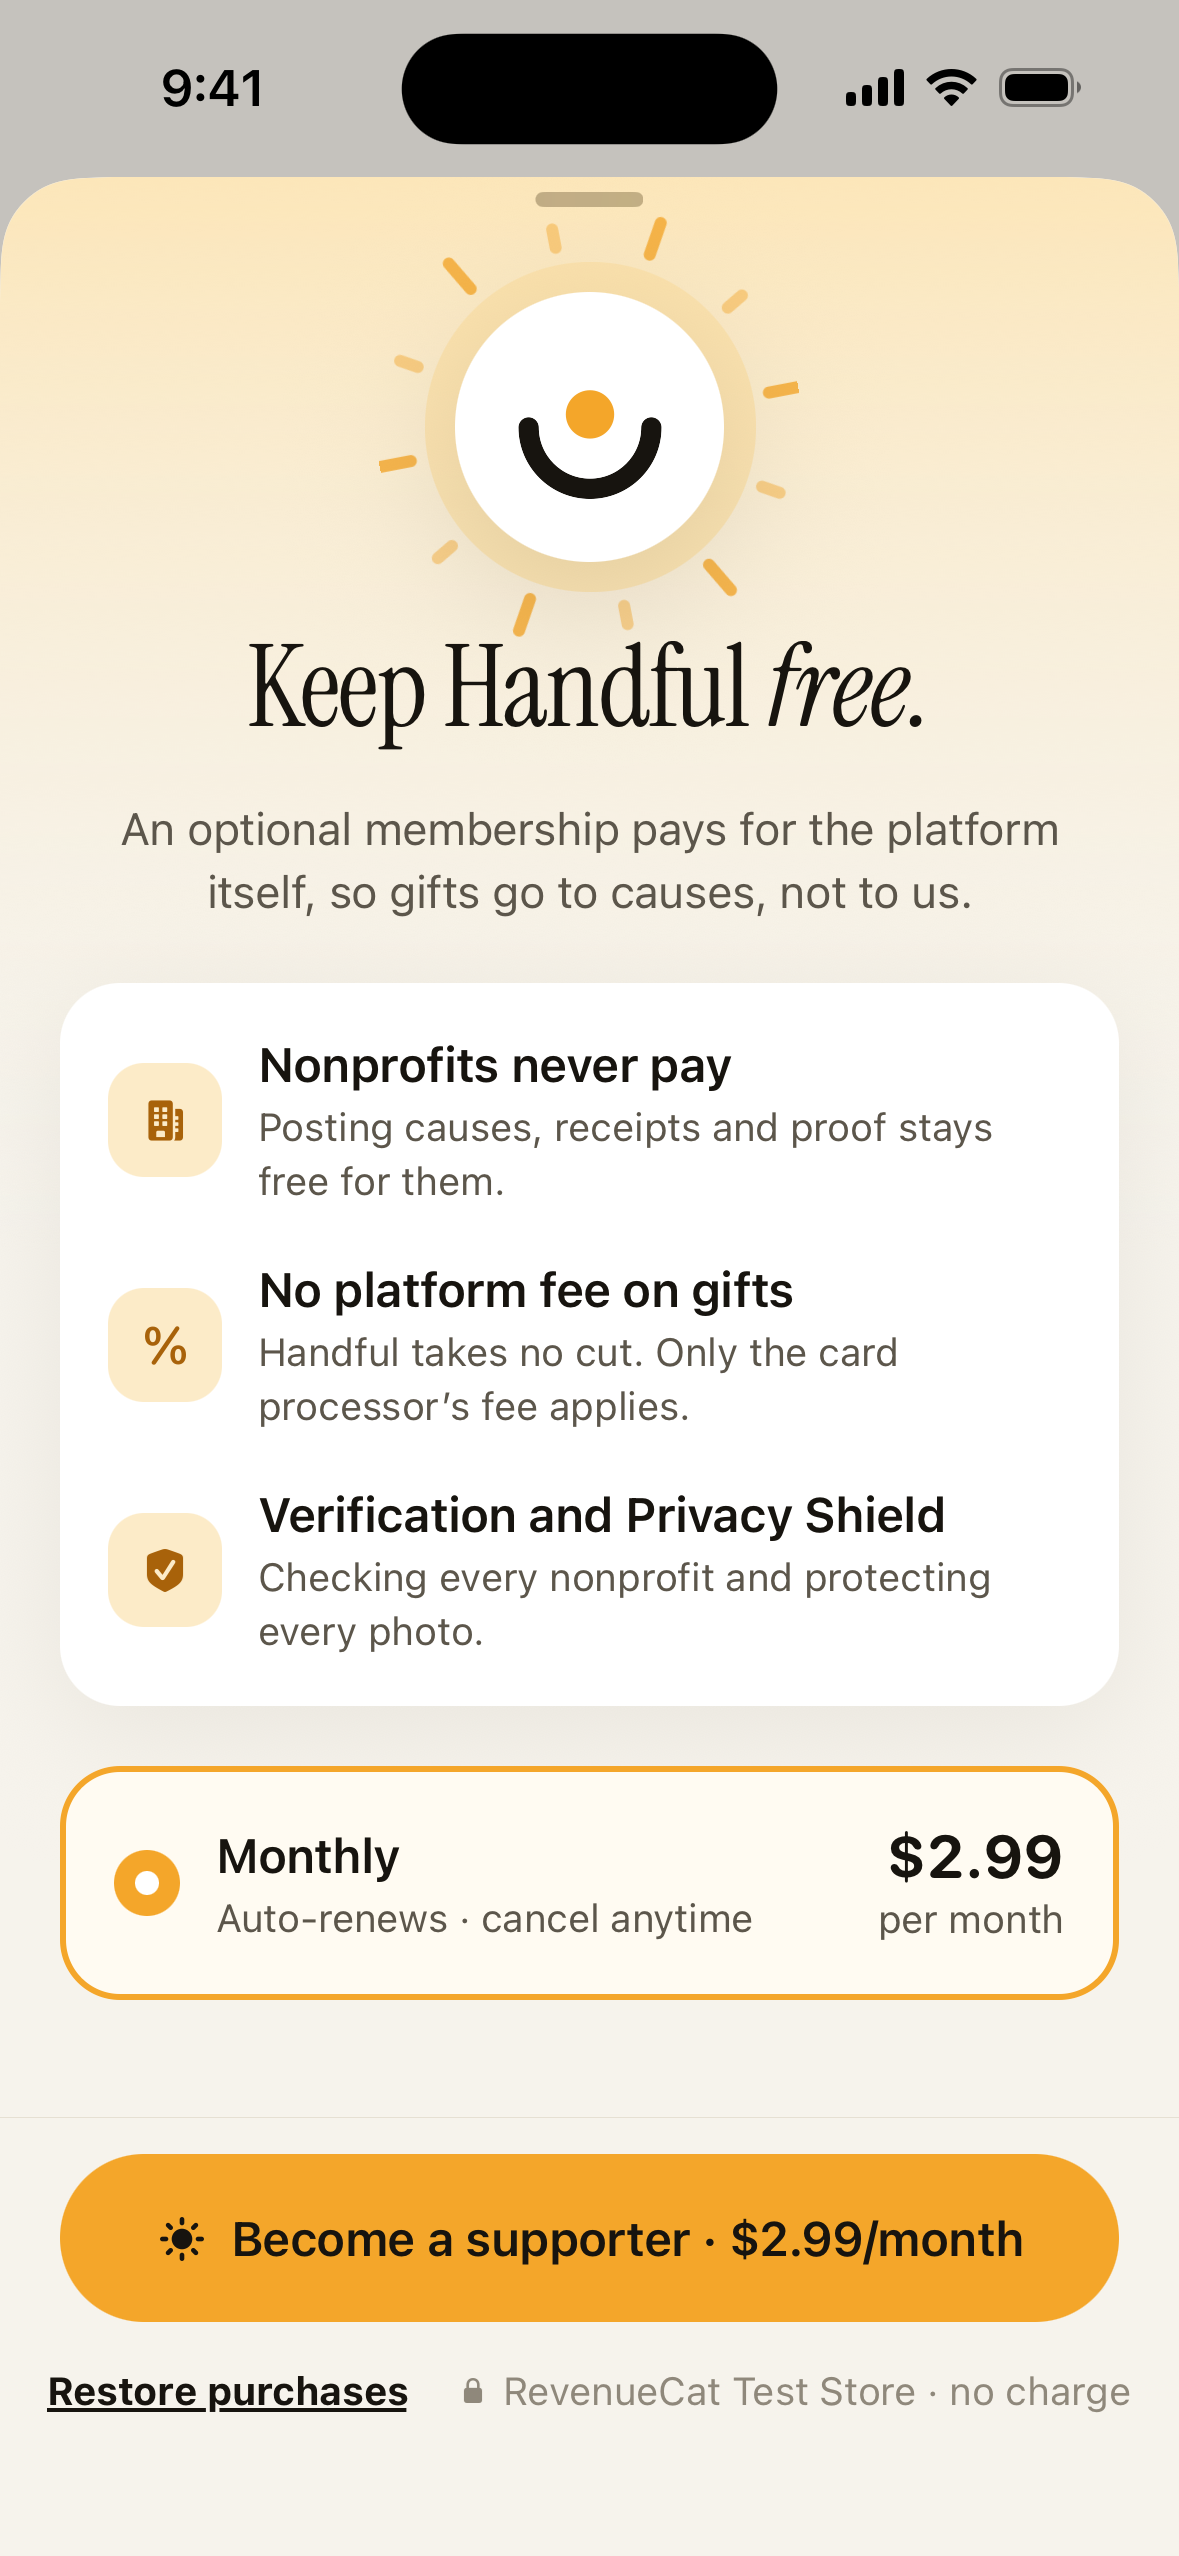
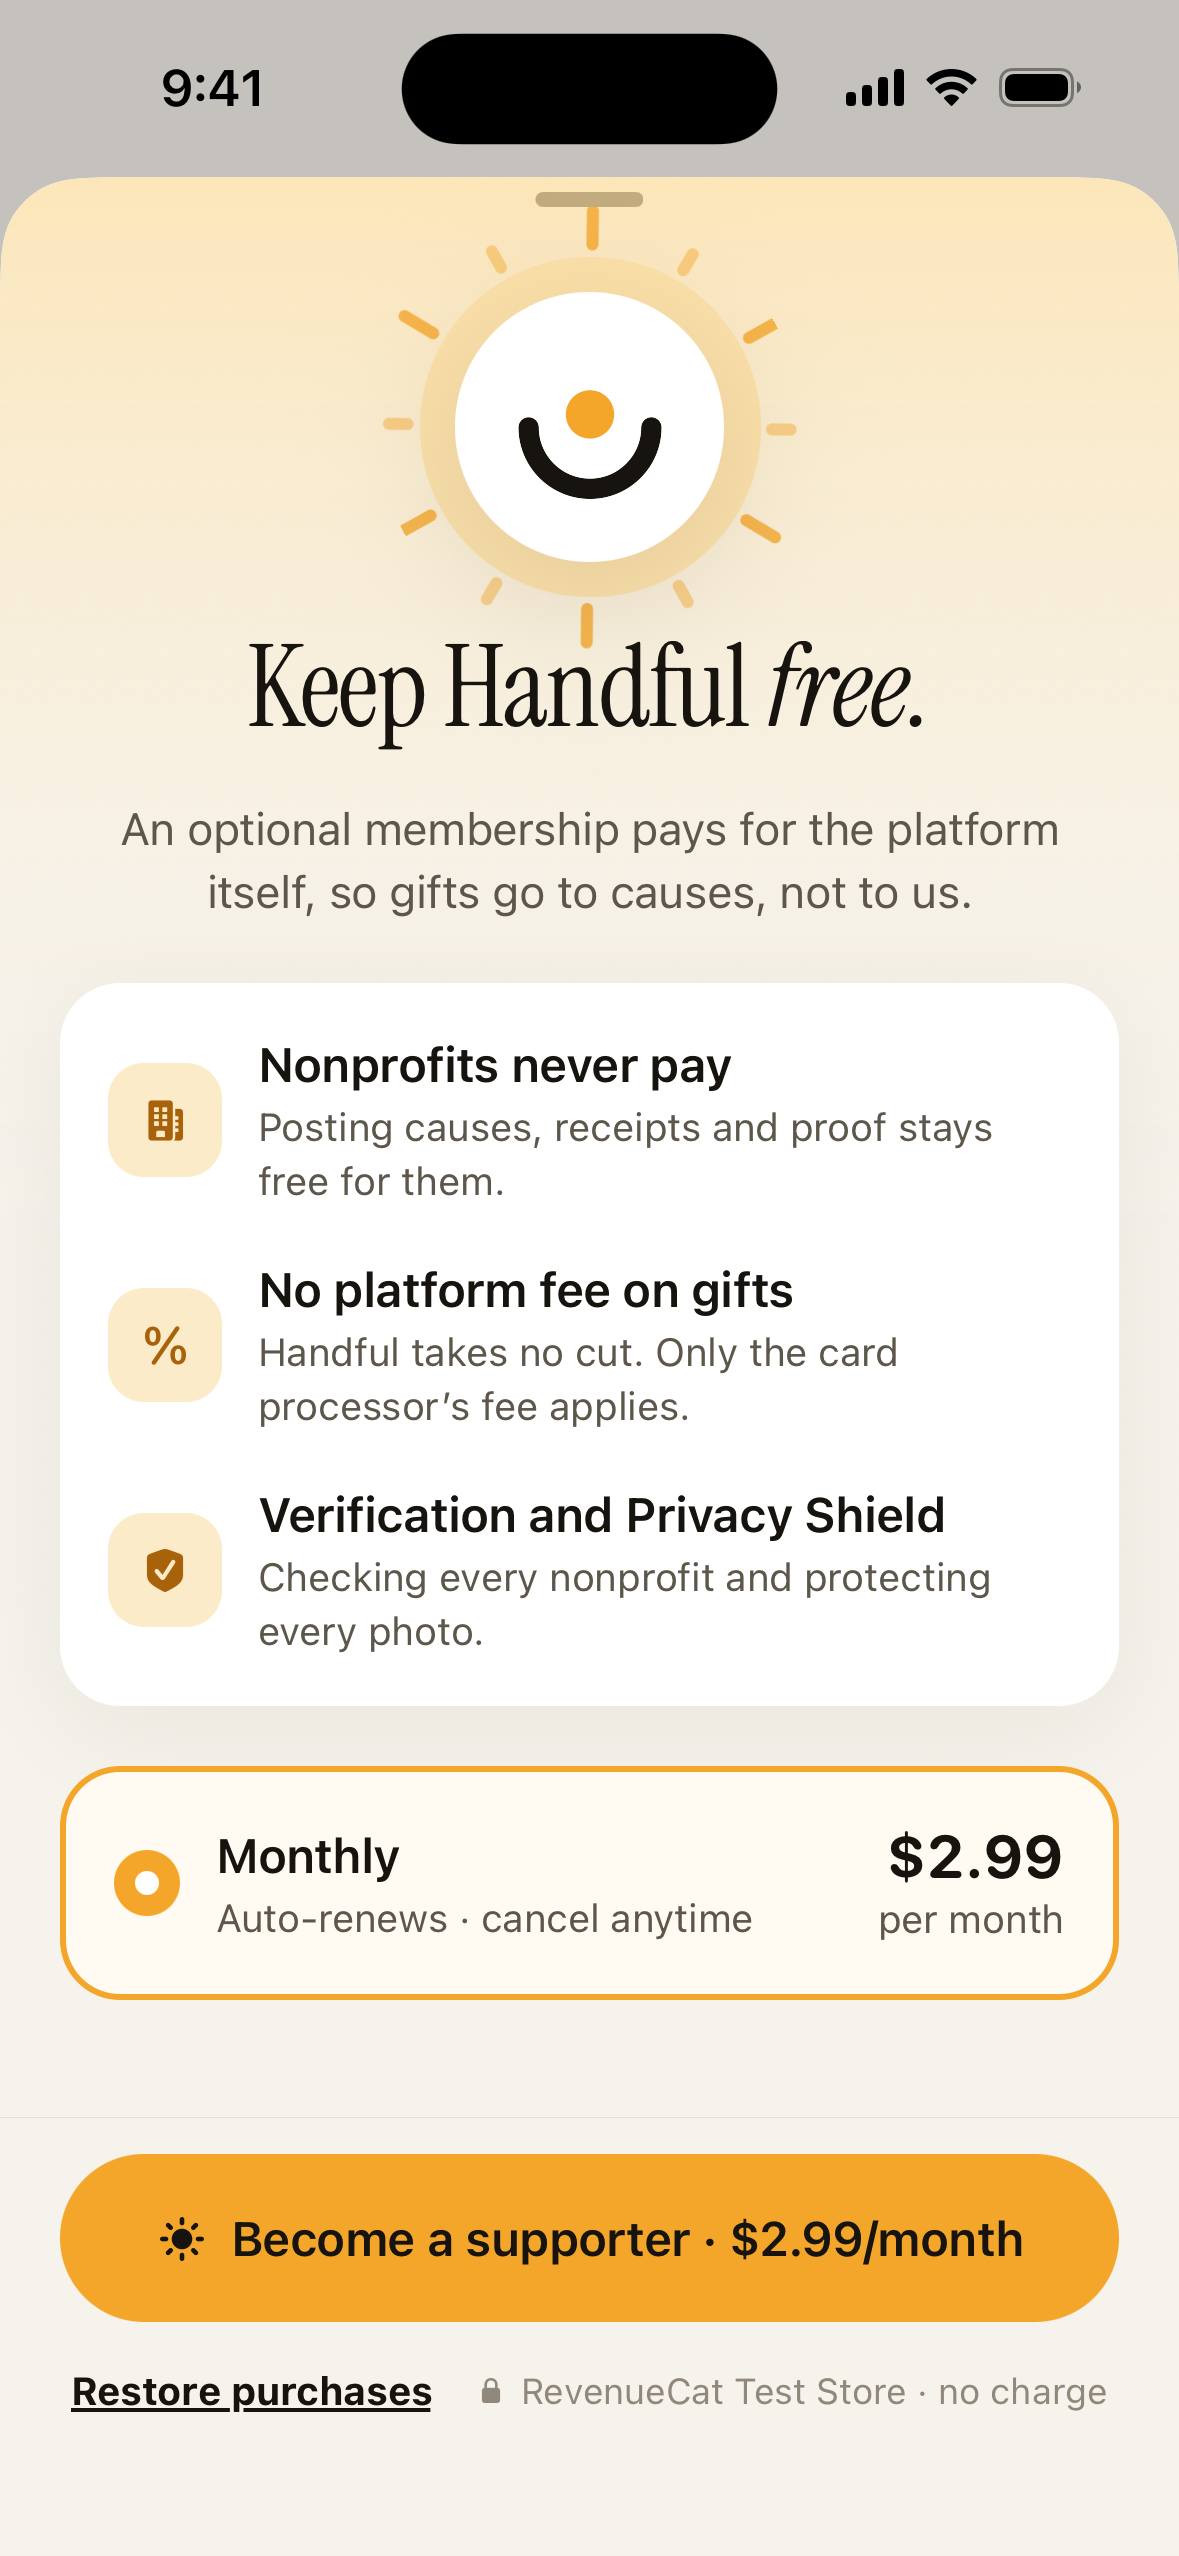
Paywall legal row breathes

diff --git a/src/app/supporter.tsx b/src/app/supporter.tsx
@@ -280,7 +280,7 @@ export default function SupporterSheet() {
             ) : null}
             <View style={{ flexDirection: 'row', alignItems: 'center', gap: 5 }}>
               <Icon name="lock.fill" size={10} color={color.ink3} />
-              <Txt variant="caption" color={color.ink3}>
+              <Txt variant="caption" color={color.ink3} style={{ fontSize: 12 }}>
                 {isTestStoreKey() ? 'RevenueCat Test Store · no charge' : 'Billed by the App Store'}
               </Txt>
             </View>
@@ -348,6 +348,6 @@ const styles = StyleSheet.create({
     borderTopWidth: StyleSheet.hairlineWidth,
     borderTopColor: color.line,
   },
-  legal: { flexDirection: 'row', alignItems: 'center', justifyContent: 'center', gap: 16 },
+  legal: { flexDirection: 'row', alignItems: 'center', justifyContent: 'center', gap: 14 },
   link: { fontWeight: '700', textDecorationLine: 'underline' },
 });
